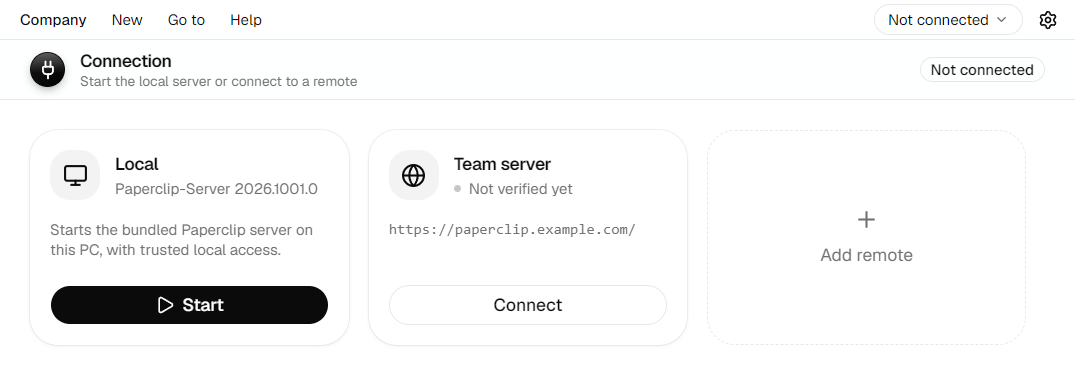
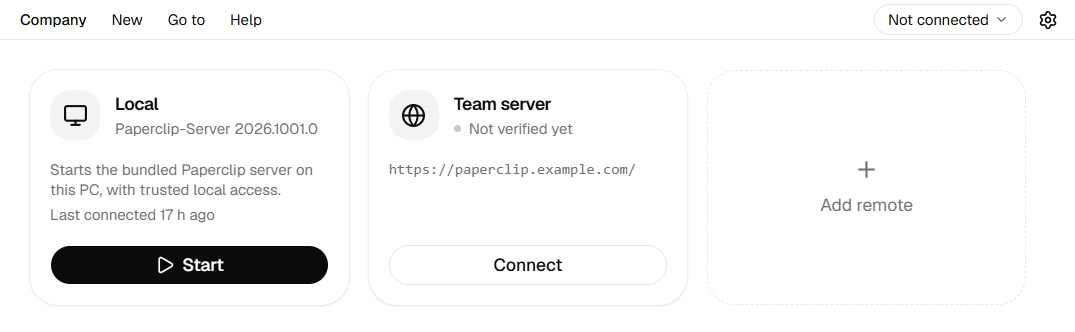
Drop the header bar from the connection page
The menu bar already names the connection; the header only repeated it.
The log page keeps its header for the way back.

diff --git a/ui/src/App.tsx b/ui/src/App.tsx
@@ -1,6 +1,5 @@
 import { useCallback, useEffect, useState } from 'react'
-import { ArrowLeft, CircleAlert, Download, Plug, RefreshCw, ScrollText } from 'lucide-react'
-import type { LucideIcon } from 'lucide-react'
+import { ArrowLeft, CircleAlert, Download, RefreshCw, ScrollText } from 'lucide-react'
 import { toast } from 'sonner'
 
 import { IconTile } from '@/components/icon-tile'
@@ -10,7 +9,6 @@ import { Button } from '@/components/ui/button'
 import { Sheet, SheetContent, SheetHeader, SheetTitle } from '@/components/ui/sheet'
 import { Toaster } from '@/components/ui/sonner'
 import { type LauncherPage, type PageProps, type Settings, type Snapshot, errorMessage, getSettings, holdOverlay, launcherState, onLauncherState, showPage, updateSettings } from '@/lib/client'
-import type { Tone } from '@/lib/tones'
 import { cn } from '@/lib/utils'
 import { useApplyColorScheme } from '@/lib/theme'
 import { type Message, setLanguage, t } from '@/i18n'
@@ -25,12 +23,6 @@ import Remotes from './panels/Remotes'
 import Server from './panels/Server'
 import Templates from './panels/Templates'
 import Updates from './panels/Updates'
-
-/// The pages of the window besides Paperclip itself; the settings are panels over whatever is in front.
-const PAGES: Record<Exclude<LauncherPage, 'paperclip'>, { label: Message; icon: LucideIcon; tone: Tone; description: Message }> = {
-  connect: { label: 'Verbindung', icon: Plug, tone: 0, description: 'Lokalen Server starten oder mit einem Remote verbinden' },
-  logs: { label: 'Protokoll', icon: ScrollText, tone: -80, description: 'Was der Paperclip-Server und die App schreiben, live' },
-}
 
 const PANEL_TITLES: Record<Panel, Message> = { server: 'Paperclip-Server', remotes: 'Verbindungen', updates: 'Updates', templates: 'Firma aus Vorlage' }
 
@@ -128,7 +120,6 @@ export default function App() {
   setLanguage(snapshot.language)
   const props: PageProps = { settings, saving, save }
   const busy = snapshot.view === 'local-boot' || snapshot.view === 'connecting'
-  const current = PAGES[page === 'paperclip' ? 'connect' : page]
 
   function open(next: LauncherPage) {
     // Paperclip's view is the host's to show; drawn early, the shell would only turn see-through over nothing.
@@ -159,26 +150,26 @@ export default function App() {
 
       {!onPaperclip && (
         <div className="relative z-10 flex min-h-0 min-w-0 flex-1 flex-col">
-          <header className="glass-surface z-20 flex h-12 shrink-0 items-center gap-3 border-b bg-background/70 px-6 backdrop-blur-md">
-            <IconTile icon={current.icon} tone={current.tone} />
-            {page === 'logs' && (
+          {page === 'logs' && (
+            <header className="glass-surface z-20 flex h-12 shrink-0 items-center gap-3 border-b bg-background/70 px-6 backdrop-blur-md">
+              <IconTile icon={ScrollText} tone={-80} />
               <Button size="sm" variant="ghost" onClick={back}>
                 <ArrowLeft /> {backLabel}
               </Button>
-            )}
-            <div className="flex min-w-0 flex-1 flex-col leading-tight">
-              <h1 className="truncate font-heading text-sm font-semibold tracking-tight">{t(current.label)}</h1>
-              <p className="truncate text-[11px] text-muted-foreground">{t(current.description)}</p>
-            </div>
-            {updater.available && (
-              <Button size="sm" variant="outline" onClick={() => openPanel('updates')}>
-                <Download /> {t('Update {version}', { version: updater.version })}
-              </Button>
-            )}
-            <Badge variant={snapshot.hasCurrentConnection ? 'default' : 'outline'}>
-              {snapshot.hasCurrentConnection ? t('Verbunden: {name}', { name: snapshot.currentConnectionName ?? '' }) : busy ? t('Verbindet …') : t('Nicht verbunden')}
-            </Badge>
-          </header>
+              <div className="flex min-w-0 flex-1 flex-col leading-tight">
+                <h1 className="truncate font-heading text-sm font-semibold tracking-tight">{t('Protokoll')}</h1>
+                <p className="truncate text-[11px] text-muted-foreground">{t('Was der Paperclip-Server und die App schreiben, live')}</p>
+              </div>
+              {updater.available && (
+                <Button size="sm" variant="outline" onClick={() => openPanel('updates')}>
+                  <Download /> {t('Update {version}', { version: updater.version })}
+                </Button>
+              )}
+              <Badge variant={snapshot.hasCurrentConnection ? 'default' : 'outline'}>
+                {snapshot.hasCurrentConnection ? t('Verbunden: {name}', { name: snapshot.currentConnectionName ?? '' }) : busy ? t('Verbindet …') : t('Nicht verbunden')}
+              </Badge>
+            </header>
+          )}
 
           <main key={page} className="relative z-10 flex-1 overflow-y-auto [scrollbar-gutter:stable]">
             <div className={cn('flex flex-col gap-6 px-6 py-6', page === 'connect' && 'mx-auto max-w-4xl')}>

diff --git a/ui/src/i18n/hi.ts b/ui/src/i18n/hi.ts
@@ -9,7 +9,6 @@ export const hi: Catalogue = [
   'जुड़ा हुआ: {name}',
   'जुड़ा नहीं है',
   'कनेक्शन',
-  'स्थानीय सर्वर शुरू करें या किसी रिमोट से जुड़ें',
   'लॉग',
   'Paperclip सर्वर और ऐप जो लिखते हैं, लाइव',
   'सिस्टम',

diff --git a/ui/src/i18n/ru.ts b/ui/src/i18n/ru.ts
@@ -9,7 +9,6 @@ export const ru: Catalogue = [
   'Подключено: {name}',
   'Не подключено',
   'Подключение',
-  'Запустить локальный сервер или подключиться к удалённому',
   'Журнал',
   'Что пишут сервер Paperclip и приложение, в реальном времени',
   'Система',

diff --git a/ui/src/i18n/ar.ts b/ui/src/i18n/ar.ts
@@ -9,7 +9,6 @@ export const ar: Catalogue = [
   'متصل: {name}',
   'غير متصل',
   'الاتصال',
-  'تشغيل الخادم المحلي أو الاتصال بخادم بعيد',
   'السجل',
   'ما يكتبه خادم Paperclip والتطبيق، مباشرةً',
   'النظام',

diff --git a/ui/src/i18n/ja.ts b/ui/src/i18n/ja.ts
@@ -9,7 +9,6 @@ export const ja: Catalogue = [
   '接続済み: {name}',
   '未接続',
   '接続',
-  'ローカルサーバーを起動するか、リモートに接続します',
   'ログ',
   'Paperclip サーバーとアプリの出力をリアルタイムで表示',
   'システム',

diff --git a/ui/src/i18n/fr.ts b/ui/src/i18n/fr.ts
@@ -9,7 +9,6 @@ export const fr: Catalogue = [
   'Connecté : {name}',
   'Non connecté',
   'Connexion',
-  'Démarrer le serveur local ou se connecter à un serveur distant',
   'Journal',
   "Ce qu'écrivent le serveur Paperclip et l'application, en direct",
   'Système',

diff --git a/ui/src/i18n/es.ts b/ui/src/i18n/es.ts
@@ -9,7 +9,6 @@ export const es: Catalogue = [
   'Conectado: {name}',
   'Sin conexión',
   'Conexión',
-  'Iniciar el servidor local o conectarse a un remoto',
   'Registro',
   'Lo que escriben el servidor de Paperclip y la aplicación, en directo',
   'Sistema',

diff --git a/ui/src/i18n/it.ts b/ui/src/i18n/it.ts
@@ -9,7 +9,6 @@ export const it: Catalogue = [
   'Connesso: {name}',
   'Non connesso',
   'Connessione',
-  'Avvia il server locale o connettiti a un remoto',
   'Registro',
   "Ciò che scrivono il server Paperclip e l'app, in tempo reale",
   'Sistema',

diff --git a/ui/src/i18n/pt.ts b/ui/src/i18n/pt.ts
@@ -9,7 +9,6 @@ export const pt: Catalogue = [
   'Conectado: {name}',
   'Não conectado',
   'Conexão',
-  'Iniciar o servidor local ou conectar a um remoto',
   'Registro',
   'O que o servidor do Paperclip e o app escrevem, ao vivo',
   'Sistema',

diff --git a/ui/src/i18n/de.ts b/ui/src/i18n/de.ts
@@ -8,7 +8,6 @@ export const de = [
   'Verbunden: {name}',
   'Nicht verbunden',
   'Verbindung',
-  'Lokalen Server starten oder mit einem Remote verbinden',
   'Protokoll',
   'Was der Paperclip-Server und die App schreiben, live',
   'System',

diff --git a/ui/src/i18n/en.ts b/ui/src/i18n/en.ts
@@ -9,7 +9,6 @@ export const en: Catalogue = [
   'Connected: {name}',
   'Not connected',
   'Connection',
-  'Start the local server or connect to a remote',
   'Log',
   'What the Paperclip server and the app write, live',
   'System',

diff --git a/ui/src/i18n/zh.ts b/ui/src/i18n/zh.ts
@@ -9,7 +9,6 @@ export const zh: Catalogue = [
   '已连接：{name}',
   '未连接',
   '连接',
-  '启动本地服务器或连接到远程服务器',
   '日志',
   'Paperclip 服务器和应用的实时输出',
   '系统',
